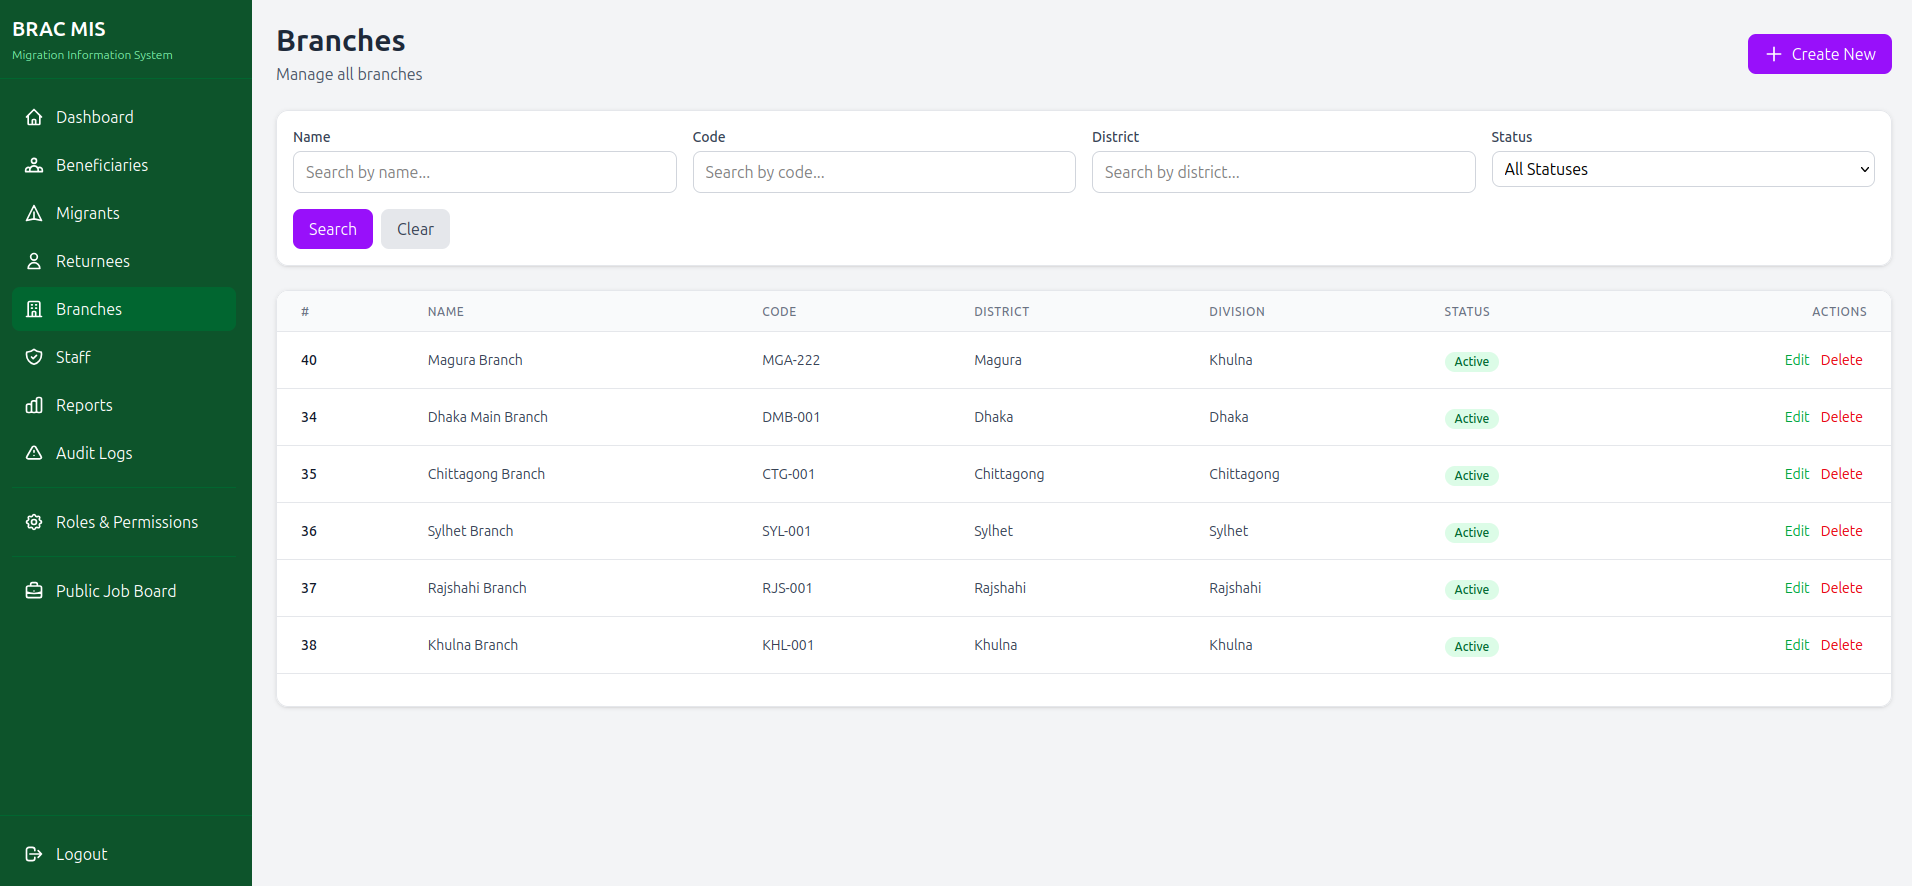
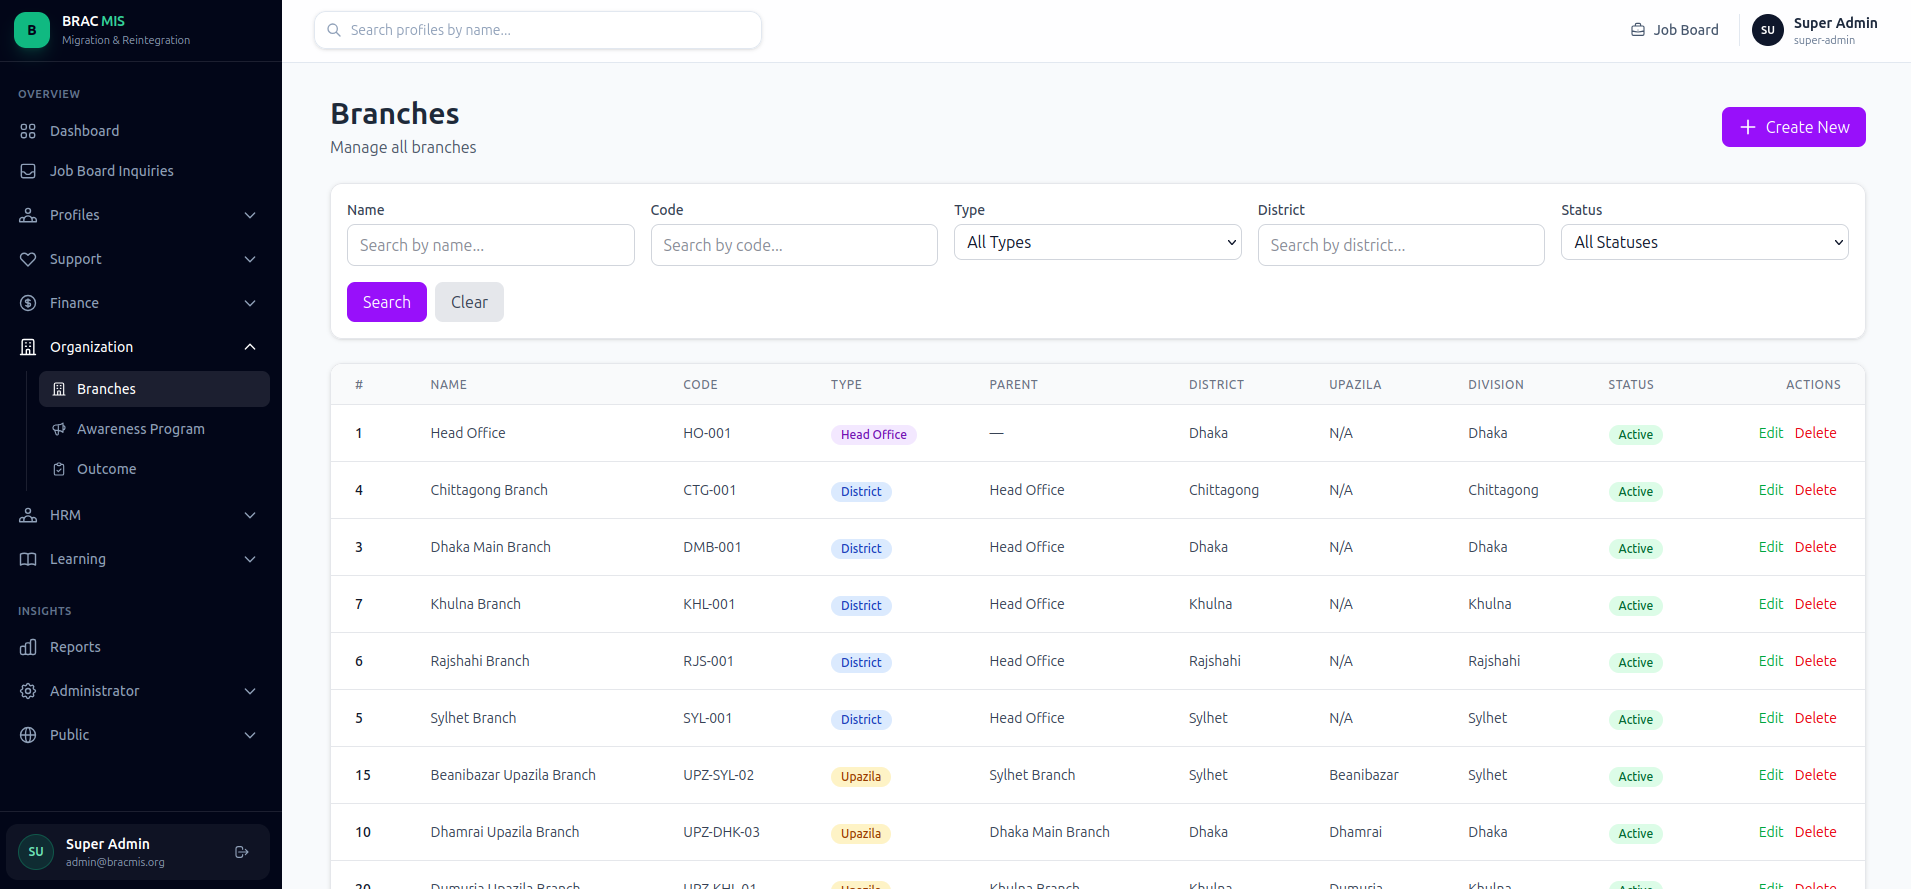
add (screenshots)

diff --git a/README.md b/README.md
@@ -59,49 +59,89 @@ A robust Migration & Reintegration Management Information System powered by **La
 
 ## Screenshots
 
-### Admin Login
+### Dashboard
 
-![Admin Login](screenshots/Admin_Login.png)
+![Dashboard](screenshots/Dashboard.png)
 
-### Admin Dashboard
+### User Profiles & Skills
 
-![Admin Dashboard](screenshots/Admin_Dashboard.png)
+![User Profiles](screenshots/User-Profiles.png)
 
-### BRAC Job Board
+![User Profile](screenshots/User-Profile.png)
 
-![BRAC Job Board](screenshots/BRAC_Job_Board.png)
+![Skill Access](screenshots/Skill-Access.png)
 
-### Branches
+### Support & Follow-ups
 
-![Branches](screenshots/Branches.png)
+![Immediate Support](screenshots/Immediate-Support.png)
 
-### Staff
+![Physical Support](screenshots/Physical-Support.png)
+
+![Psychological Support](screenshots/Psychological-Support.png)
+
+![Financial Support](screenshots/Financial-Support.png)
+
+![Follow-Ups](screenshots/Follow-Ups.png)
+
+![Support History Analysis](screenshots/Support-History-Analysis.png)
+
+### Job Board
+
+![Job Board](screenshots/Job-Board.png)
+
+![Job Board Skill Info](screenshots/Job-Board-Skill-Info.png)
+
+### Human Resource Management
+
+![Human Resource Management](screenshots/Human-Resource-Management.png)
 
 ![Staff](screenshots/Staff.png)
+
+![Staff Incentives](screenshots/Staff-Incentives.png)
+
+### Learning & Certificates
+
+![Courses](screenshots/Courses.png)
+
+![Courses View](screenshots/Courses-View.png)
+
+![Certificates](screenshots/Certificates.png)
+
+![Verify BRAC Certificate](screenshots/Verify-BRAC-Certificate.png)
+
+### Awareness Programs
+
+![Awareness Program](screenshots/Awareness-Program.png)
+
+![Awareness Outcomes](screenshots/Awareness-Outcomes.png)
+
+### Finance
+
+![Chart of Accounts](screenshots/Chart-of-Accounts.png)
+
+![Journal Entries](screenshots/Journal-Entries.png)
+
+![Trial Balance](screenshots/Trial-Balance.png)
+
+![Income Statement](screenshots/Income-Statement.png)
+
+![Balance Sheet](screenshots/Balance-Sheet.png)
 
 ### Reports
 
 ![Reports](screenshots/Reports.png)
 
-### Audit Logs
+### Administration
 
-![Audit Logs](screenshots/Audit_Logs.png)
+![Branches](screenshots/Branches.png)
 
-### Roles & Permissions
+![Roles & Permissions](screenshots/Roles-Permissions.png)
 
-![Roles](screenshots/Roles.png)
+![Permissions List](screenshots/Permissions-List.png)
 
-### Edit Role
+![System Activity Logger](screenshots/System-Activity-Logger.png)
 
-![Edit Role](screenshots/Edit-Role.png)
-
-### Permissions
-
-![Permissions](screenshots/Permissions.png)
-
-### Assign Roles
-
-![Assign Roles](screenshots/Assign-Roles.png)
+![Settings](screenshots/Settings.png)
 
 ---
 
